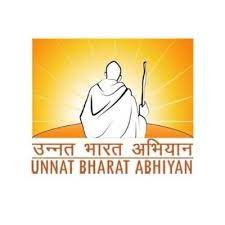
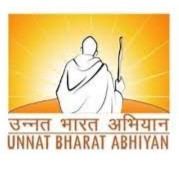
CSS Changes 6

diff --git a/frontend/homepage/src/components/Home_p1/HomePage.css b/frontend/homepage/src/components/Home_p1/HomePage.css
@@ -36,15 +36,15 @@ video {
   }
 
   .herologo-1 {
-    height: 80% !important;
+    height: 90% !important;
   }
 
   .herologo-2{
-    height: 80% !important;
+    height: 90% !important;
   }
 
   .herologo-3{
-    height: 80% !important; 
+    height: 90% !important; 
   }
 
 /* upper part background image container */
